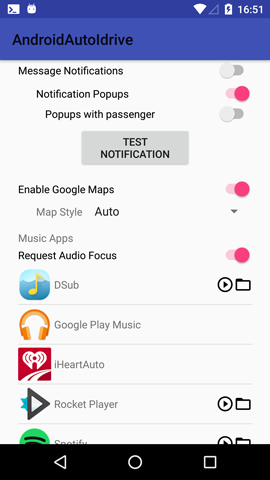
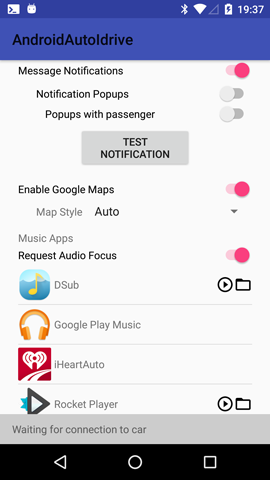
Shows a status bar along the bottom

diff --git a/app/src/main/java/me/hufman/androidautoidrive/MainActivity.kt b/app/src/main/java/me/hufman/androidautoidrive/MainActivity.kt
@@ -24,6 +24,8 @@ import android.widget.*
 import kotlinx.android.synthetic.main.activity_main.*
 import me.hufman.androidautoidrive.music.MusicAppDiscovery
 import me.hufman.androidautoidrive.music.MusicAppInfo
+import me.hufman.idriveconnectionkit.android.IDriveConnectionListener
+import me.hufman.idriveconnectionkit.android.SecurityService
 import kotlin.math.max
 
 class MainActivity : AppCompatActivity() {
@@ -200,6 +202,21 @@ class MainActivity : AppCompatActivity() {
 		swAudioContext.isChecked = AppSettings[AppSettings.KEYS.AUDIO_ENABLE_CONTEXT].toBoolean()
 
 		listMusicApps.invalidateViews()
+
+		if (!SecurityService.isConnecting() && !SecurityService.isConnected()) {
+			txtConnectionStatus.text = resources.getString(R.string.connectionStatusMissingConnectedApp)
+			txtConnectionStatus.setBackgroundColor(resources.getColor(R.color.connectionError, null))
+		} else if (!IDriveConnectionListener.isConnected) {
+			txtConnectionStatus.text = resources.getString(R.string.connectionStatusWaiting)
+			txtConnectionStatus.setBackgroundColor(resources.getColor(R.color.connectionWaiting, null))
+		} else {
+			txtConnectionStatus.text = when (IDriveConnectionListener.brand) {
+				"bmw" -> resources.getString(R.string.notification_description_bmw)
+				"mini" -> resources.getString(R.string.notification_description_mini)
+				else -> resources.getString(R.string.notification_description)
+			}
+			txtConnectionStatus.setBackgroundColor(resources.getColor(R.color.connectionConnected, null))
+		}
 	}
 
 	fun startMainService() {

diff --git a/app/src/main/java/me/hufman/androidautoidrive/MainService.kt b/app/src/main/java/me/hufman/androidautoidrive/MainService.kt
@@ -77,8 +77,8 @@ class MainService: Service() {
 				.setSmallIcon(android.R.drawable.ic_menu_gallery)
 				.setPriority(PRIORITY_LOW)
 				.setContentIntent(PendingIntent.getActivity(this, 0, notifyIntent, PendingIntent.FLAG_UPDATE_CURRENT))
-		if (brand == "bmw") foregroundNotificationBuilder.setContentText(getText(R.string.notification_description_bmw))
-		if (brand == "mini") foregroundNotificationBuilder.setContentText(getText(R.string.notification_description_mini))
+		if (brand?.toLowerCase() == "bmw") foregroundNotificationBuilder.setContentText(getText(R.string.notification_description_bmw))
+		if (brand?.toLowerCase() == "mini") foregroundNotificationBuilder.setContentText(getText(R.string.notification_description_mini))
 		foregroundNotification = foregroundNotificationBuilder.build()
 		startForeground(ONGOING_NOTIFICATION_ID, foregroundNotification)
 	}

diff --git a/app/src/main/java/me/hufman/androidautoidrive/CarConnectionListener.kt b/app/src/main/java/me/hufman/androidautoidrive/CarConnectionListener.kt
@@ -16,5 +16,7 @@ class CarConnectionListener: BroadcastReceiver() {
 		if (intent.action == "com.bmwgroup.connected.accessory.ACTION_CAR_ACCESSORY_DETACHED") {
 			context.stopService(Intent(context, MainService::class.java).setAction(MainService.ACTION_STOP))
 		}
+
+		context.sendBroadcast(Intent(MainActivity.INTENT_REDRAW))
 	}
 }
